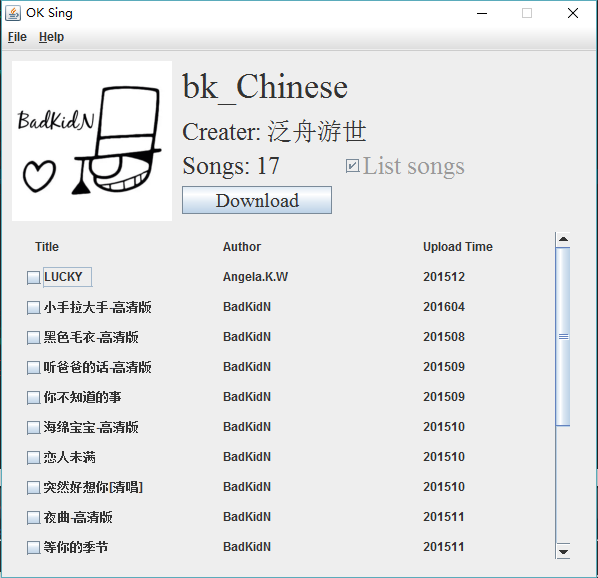
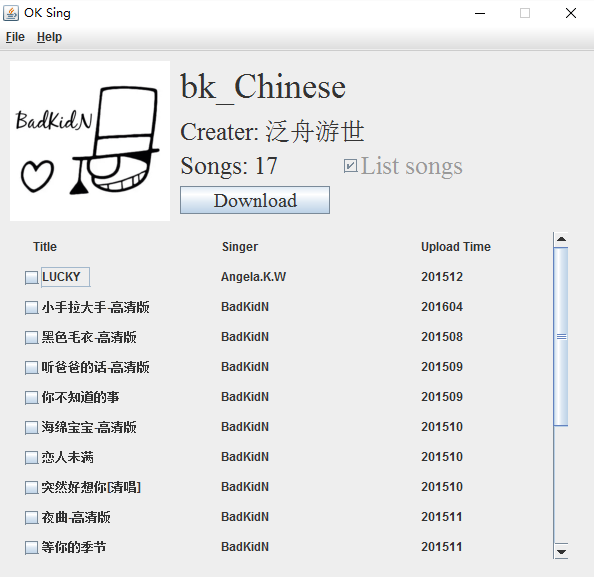
Update pictures

diff --git a/OKSing-new/src/OKSGUI.java b/OKSing-new/src/OKSGUI.java
@@ -221,7 +221,7 @@ public class OKSGUI{
 		miAbout.setMnemonic(KeyEvent.VK_A);
 		miAbout.addActionListener( e -> {
 			JOptionPane.showMessageDialog(null, 
-					"OK Sing v1.0\n"+ "Date: 02/03/2016\n"+ "Author: Dawei Fan",
+					"OK Sing v2.0\n"+ "Date: 04/30/2016\n"+ "Author: Dawei Fan",
 					"About",
 					JOptionPane.INFORMATION_MESSAGE);				
 		});
@@ -411,7 +411,7 @@ public class OKSGUI{
 			JPanel labelRow = new JPanel(new GridLayout(1, 3));
 			labelRow.setVisible(true);
 			labelRow.add(new JLabel("    Title"));
-			labelRow.add(new JLabel("Author"));
+			labelRow.add(new JLabel("Singer"));
 			labelRow.add(new JLabel("Upload Time"));
 			display.add(labelRow);
 			
